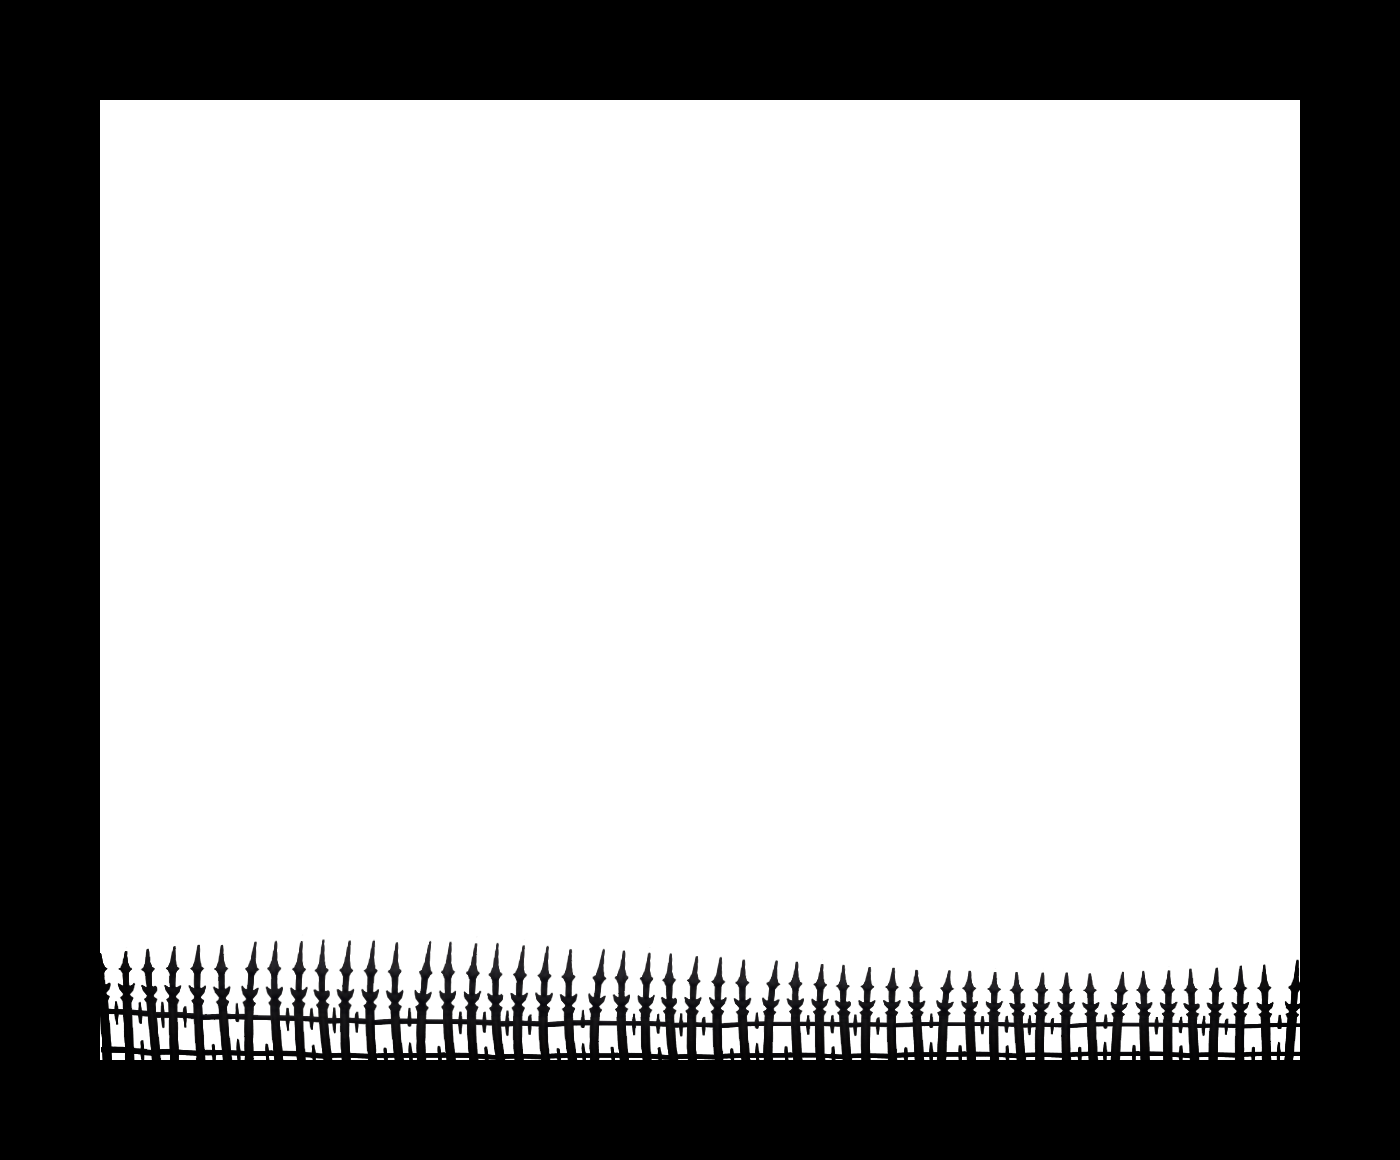
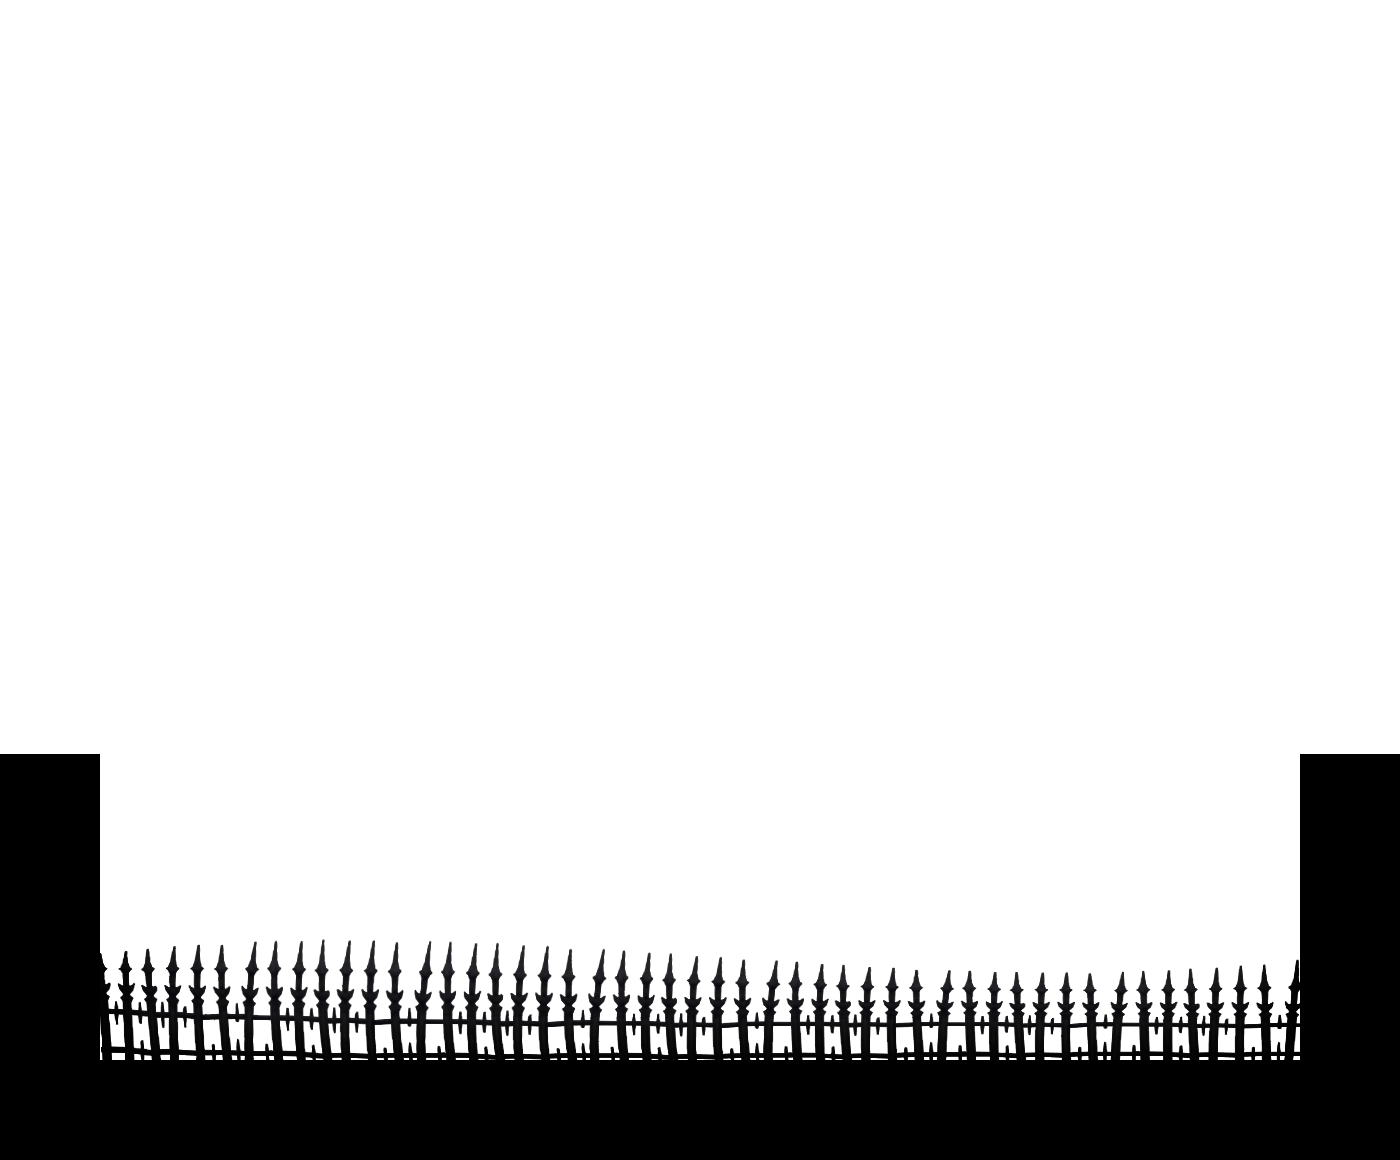
updated background (works for moto g)

Changed region(s): [[0.0, 0.0, 1.0, 0.6517]]

diff --git a/Classes/HelloWorldScene.cpp b/Classes/HelloWorldScene.cpp
@@ -57,8 +57,8 @@ bool HelloWorld::init()
 
 void HelloWorld::realInit() {
 		CCSize visibleSize = CCDirector::sharedDirector()->getVisibleSize();
-	    float mapWidth = visibleSize.width * 1.5;
-	    float mapHeight = visibleSize.height * 1.5;
+	    float mapWidth = visibleSize.width * 1.2;
+	    float mapHeight = visibleSize.height * 1.4;
 	    float mapCornerX = - (mapWidth - visibleSize.width) / 2;
 	    float mapCornerY = - (mapHeight - visibleSize.height) / 2;
 
@@ -66,16 +66,16 @@ void HelloWorld::realInit() {
 
 	    this->mapa = new dxco::Mapa(mapCornerX, mapCornerY, mapWidth, mapHeight);
 
-	    CCSprite* pSprite = dxco::SpriteUtil::create("ciudad_fondo.png", -mapWidth/4, -mapHeight/4, mapWidth*1.5, mapHeight*1.5);
+	    CCSprite* pSprite = dxco::SpriteUtil::create("ciudad_fondo.png", -mapWidth/4, -mapHeight * 0.2, mapWidth*1.5, mapHeight*1.4);
 	    this->mapa->addChild(pSprite, -10);
 
 	    this->setTouchEnabled(true);
 
 	    this->clouds = new dxco::Container(mapCornerX, mapCornerY, mapWidth, mapHeight);
-	    CCSprite* rejas = dxco::SpriteUtil::create("ciudad_rejas.png", -mapWidth/4, -mapHeight/4, mapWidth*1.5, mapHeight*1.5);
-	    this->clouds->addChild(rejas);
-	    CCSprite* tanque = dxco::SpriteUtil::create("ciudad_tanque.png", -mapWidth/4, -mapHeight/4, mapWidth*1.5, mapHeight*1.5);
+	    CCSprite* tanque = dxco::SpriteUtil::create("ciudad_tanque.png", -mapWidth/4, -mapHeight  * 0.2, mapWidth*1.5, mapHeight*1.4);
 		this->clouds->addChild(tanque);
+	    CCSprite* rejas = dxco::SpriteUtil::create("ciudad_rejas.png", -mapWidth/4, -mapHeight  * 0.2, mapWidth*1.5, mapHeight*1.4);
+	    this->clouds->addChild(rejas);
 	    this->addChild(this->clouds, 4);
 
 	    CCSprite* joystickFondo = dxco::SpriteUtil::create("circulo.png", visibleSize.width *  0.85 - 80, 20, 80, 80);
